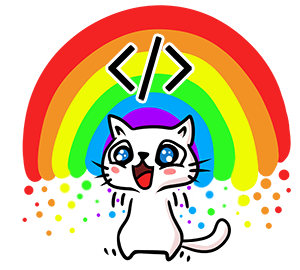
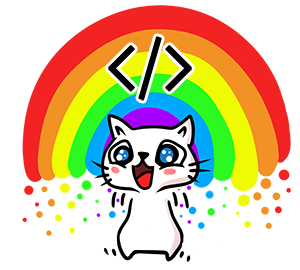
animated cat

Changed region(s): [[0.6, 0.8, 0.78, 0.9481]]

diff --git a/src/components/IntroKitty.vue b/src/components/IntroKitty.vue
@@ -1,37 +1,46 @@
 <template>
   <v-container>
-    <v-row class="text-center">
-      <v-col >
-        <div class="d-flex justify-center align-center">
 
-     
-        <div id="logo1">hire</div>
-        <div id="logo2">ME</div>
-           </div>
+    <v-sheet class="jumboCard">
+
+  
+    <v-row class="text-center">
+      <v-col>
+        <div class="scale-in d-flex justify-center align-center">
+          <div id="logo1">hire</div>
+          <div id="logo2">ME</div>
+        </div>
       </v-col>
 
-    <v-col cols="12">
-      <div class="catContainer">
-        <img src="../assets/images/cat.png" class="cat" height="230" alt="cat">
-         <img src="../assets/images/cup-right.png" class="cup-right" height="45" alt="cup">
-        <img src="../assets/images/cup-left.png" class="cup-left" height="45" alt="cup">
+      <v-col cols="12" align="center">
+        <div class="catContainer scale-in" >
+       
+             <img src="../assets/images/tail.png" class="tail" height="38" alt="tail" />
+          <img src="../assets/images/cup-right.png" class="cup-right" height="45" alt="cup" />
+           
+          <img src="../assets/images/cup-left.png" class="cup-left" height="45" alt="cup" />
 
-      </div>
-
-    </v-col>
-
+             <img src="../assets/images/cat.png" class="cat" height="230" alt="cat" />
+           
+        </div>
+      </v-col>
 
       <!-- <v-col cols="12">
         <v-img :src="require('../assets/images/excited.png')" class="mb-3" contain height="200" />
-      </v-col> -->
+      </v-col>-->
 
       <v-col class="mb-4">
         <p class="subheading font-weight-regular">
-          All the reasons why
-          <span class="font-weight-bold">YOU</span> want this front end pixie on board!
+          All the reasons why you want <span class="font-weight-bold">THIS</span> front end pixie on board!
         </p>
       </v-col>
     </v-row>
+
+  </v-sheet>
+         <v-row align="center" justify="center">
+          <v-btn text>See all reasons</v-btn> <v-btn fab text aria-label="See random reason" title="See random reason"><v-icon>mdi-dice-3-outline</v-icon></v-btn>
+        </v-row>
+   
   </v-container>
 </template>
 
@@ -45,29 +54,102 @@ export default {
 
 <style>
 
-#logo1{
+.jumboCard{
+  border-radius: 100px !important;
+}
+
+.scale-in{
+  animation: scale-in 1s;
+}
+
+#logo1 {
   font-family: "Sriracha", sans-serif;
   font-size: 36px;
 }
 
-#logo2{
+#logo2 {
   font-family: "Bungee", sans-serif;
   font-size: 46px;
-  color: rgb(26, 167, 167);
+  color: rgb(165, 60, 130);
 }
 
-.catContainer{
-  position: relative
-}
-.cup-left{
-  position: absolute;
-  top: 56%;
-  right: 54%;
+.catContainer {
+  position: relative;
+  height: 230px;
+  width: 256px;
 }
 
-.cup-right{
+
+.cup-left,
+.cup-right {
+  animation: coffee 2s infinite;
+  transition: transform 0.2s ease-in-out;
+  z-index: 601;
+}
+.cup-left {
   position: absolute;
   top: 56%;
-  right: 40%;
+  left: 20%;
+  
 }
+
+.cup-right {
+  position: absolute;
+  top: 56%;
+  right: 20%;
+}
+
+.tail {
+  position: absolute;
+  top: 77%;
+  right: 20%;
+  z-index: 599;
+   transform-origin: left center;
+  animation: tail 2.5s infinite;
+}
+
+.cat {
+  position: relative;
+   z-index: 600;
+}
+
+
+@keyframes coffee {
+  0% {
+    top: 56%;
+  }
+  50% {
+    top: 50%;
+  }
+  100% {
+    top: 56%;
+  }
+}
+
+@keyframes tail {
+  0% {
+    transform:rotate(0);
+  }
+  50% {
+     transform:rotate(15deg);
+  }
+  100% {
+     transform:rotate(0);
+  }
+}
+
+@keyframes scale-in {
+  0% {
+    transform:scale(0.9);
+    opacity: 0%
+  }
+  50% {
+     transform:scale(1.05);
+  }
+  100% {
+    transform:scale(1);
+    opacity: 100%;
+  }
+}
+
 </style>

diff --git a/src/App.vue b/src/App.vue
@@ -1,10 +1,10 @@
 <template>
   <v-app id="app">
-    <div >
+    <div>
       <v-row dense>
         <v-spacer></v-spacer>
 
-        <v-btn color="teal" small class href="https://anzudev.com" target="_blank" text>
+        <v-btn dark small class href="https://anzudev.com" target="_blank" text>
           <span class="mr-2">portfolio</span>
           <v-icon small>mdi-open-in-new</v-icon>
         </v-btn>
@@ -12,19 +12,32 @@
     </div>
 
     <v-main>
-      <IntroKitty />
+      <v-row justify="center" no-gutters class="ma-0 pa-0">
+        <v-col cols="12" md="10" class="ma-0 pa-0">
+          <IntroKitty />
+        </v-col>
+
+        <v-col cols="12" md="10" class="ma-0 pa-0">
+             <v-sheet class="jumboCard">
+          <ReasonsContainer />
+           </v-sheet>
+        </v-col>
+
+      </v-row>
     </v-main>
   </v-app>
 </template>
 
 <script>
 import IntroKitty from "./components/IntroKitty";
+import ReasonsContainer from "./components/ReasonsContainer";
 
 export default {
   name: "App",
 
   components: {
-    IntroKitty
+    IntroKitty,
+    ReasonsContainer
   },
 
   data: () => ({
@@ -34,10 +47,13 @@ export default {
 </script>
 
 <style>
-
 #app {
-  background-image: linear-gradient(to bottom, rgba(255, 255, 255, 0), rgba(182, 218, 207, 0.5)),url("~@/assets/images/so-white.png");
-  font-family: Montserrat, sans-serif;}
 
+background-image: url("https://www.transparenttextures.com/patterns/back-pattern.png"), linear-gradient( 135deg, #FFF886 10%, #F072B6 100%);
+  font-family: Montserrat, sans-serif;
+}
 
+.jumboCard {
+  border-radius: 120px !important;
+}
 </style>

diff --git a/src/components/Reasons/Reason1.vue b/src/components/Reasons/Reason1.vue
@@ -1,0 +1,36 @@
+<template>
+
+
+<v-card height="200">
+stuff
+</v-card>
+
+
+</template>
+
+<script>
+// import HelloWorld from '@/components/HelloWorld.vue'
+export default {
+    name: "",
+    props: [""],
+    components: {
+        
+    },
+    data: () => ({
+
+    }),
+    methods: {
+
+    },
+    computed: {
+        
+    }
+
+}
+</script>
+
+<style>
+.jumboCard{
+  border-radius: 100px !important;
+}
+</style>

diff --git a/src/components/ReasonsContainer.vue b/src/components/ReasonsContainer.vue
@@ -1,0 +1,33 @@
+<template>
+
+<v-card flat height="600" color="transparent" class="ma-12 pt-12">
+stuff
+</v-card>
+
+
+</template>
+
+<script>
+// import HelloWorld from '@/components/HelloWorld.vue'
+export default {
+    name: "",
+    props: [""],
+    components: {
+        
+    },
+    data: () => ({
+
+    }),
+    methods: {
+
+    },
+    computed: {
+        
+    }
+
+}
+</script>
+
+<style>
+
+</style>
